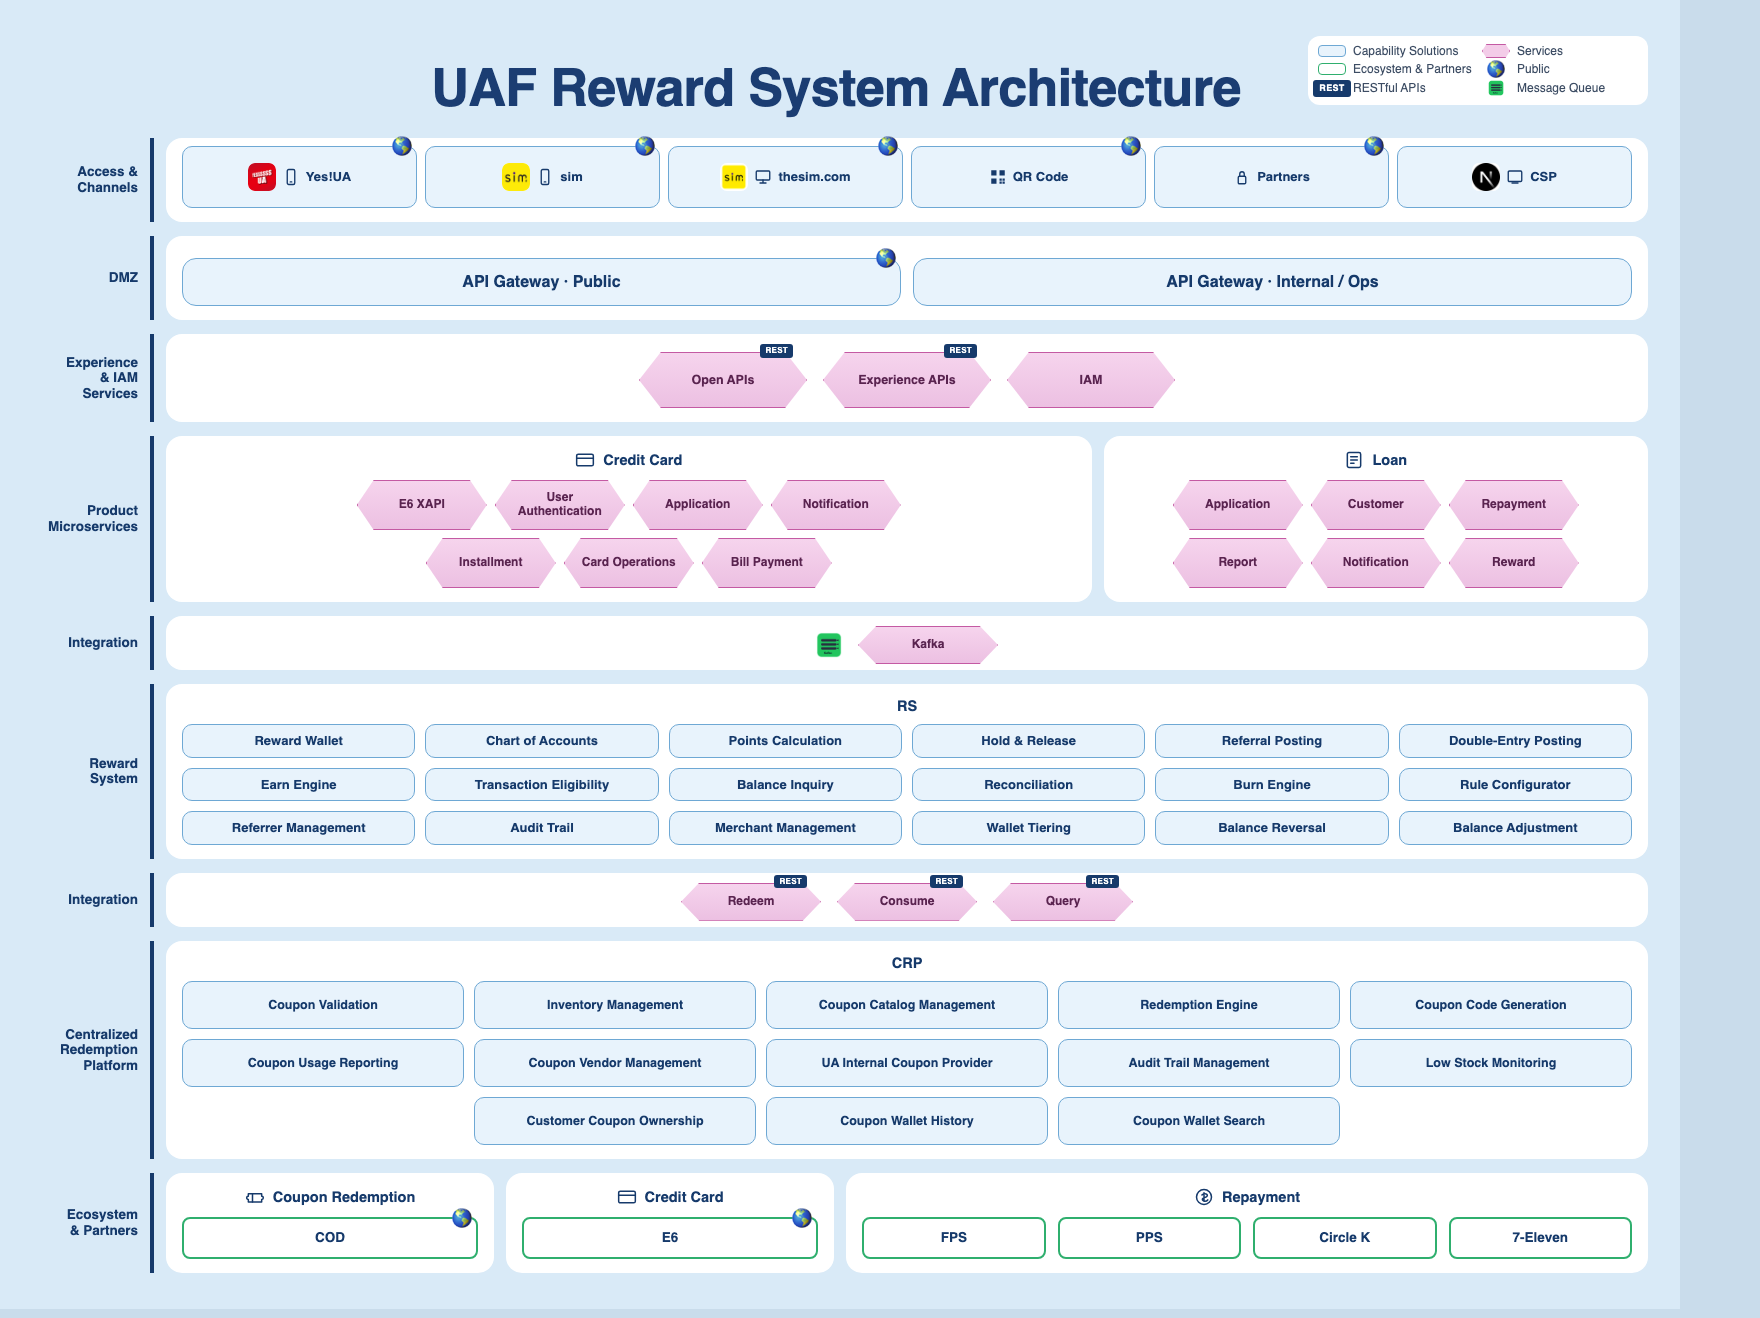
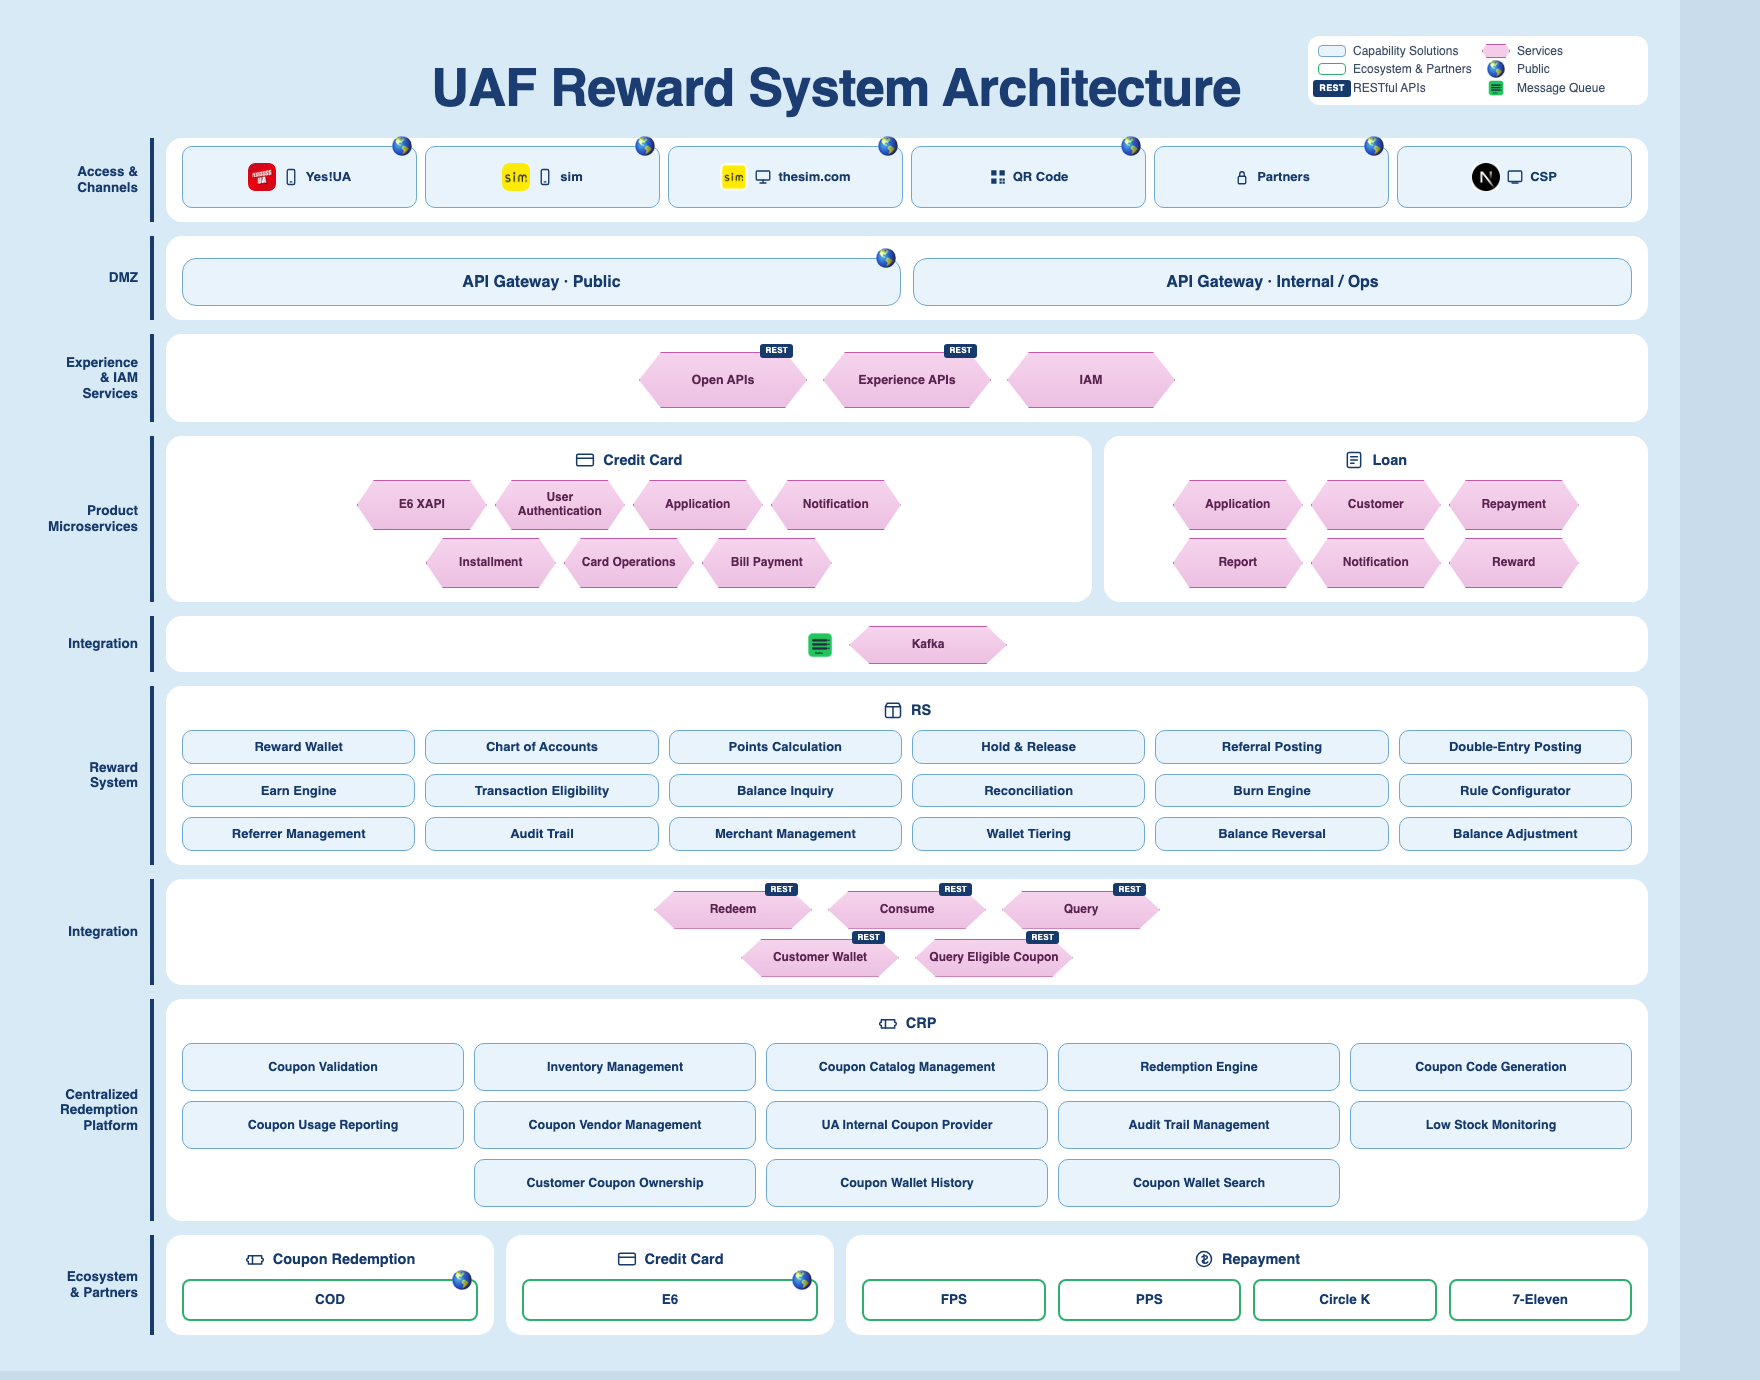
docs(decks): Integration REST add Customer Wallet and Query Eligible Coupon

diff --git a/docs/decks/uaf-rewards-logical-architecture.html b/docs/decks/uaf-rewards-logical-architecture.html
@@ -67,16 +67,16 @@
   .prod{display:grid;grid-template-columns:1.7fr 1fr;gap:12px;align-items:stretch}
   .island{background:#fff;border-radius:16px;padding:14px 16px;min-height:100%}
   .island h3,.card > h3{margin-bottom:10px;display:flex;align-items:center;justify-content:center;gap:8px;text-align:center;font-size:14.5px;color:#163a6b;font-weight:700}
-  .island h3 .ico{width:20px;height:20px}
+  .island h3 .ico,.card > h3 .ico{width:20px;height:20px}
   .prod .hexrow{gap:8px}
   .prod .hexrow .svc{width:130px;min-height:50px;font-size:12px}
   .eco{display:grid;grid-template-columns:.9fr .9fr 2.2fr;gap:12px;align-items:stretch}
   .eco .pay{min-height:42px;width:100%}
   .eco .rails{padding-top:0;grid-template-columns:repeat(4,1fr)}
-  .thin-int{padding:6px 16px}
+  .thin-int{padding:12px 16px 8px}
   .thin-int.hexrow{padding-top:10px}
-  .thin-int .svc{min-height:38px;width:140px;padding:6px 10px;font-size:12px}
-  .thin-int .svcw{width:140px}
+  .thin-int .svc{min-height:38px;width:158px;padding:6px 10px;font-size:12px}
+  .thin-int .svcw{width:158px}
   .thin-int .klogo{width:26px;height:26px}
 
   .l1{grid-column:1;grid-row:1}
@@ -210,7 +210,10 @@
 
     <div class="lab l6">Reward<br>System</div>
     <div class="card c6">
-      <h3>RS</h3>
+      <h3>
+        <svg class="ico" viewBox="0 0 24 24"><path d="M3 8h18v11a2 2 0 0 1-2 2H5a2 2 0 0 1-2-2V8z"/><path d="M3 8l2-4h14l2 4"/><path d="M12 8v13"/></svg>
+        RS
+      </h3>
       <div class="caps" style="grid-template-columns:repeat(6,1fr)">
         <div class="cap">Reward Wallet</div>
         <div class="cap">Chart of Accounts</div>
@@ -234,15 +237,24 @@
     </div>
 
     <div class="lab l7">Integration</div>
-    <div class="card c7 hexrow thin-int">
-      <div class="svcw"><div class="svc">Redeem</div><span class="badge-rest">REST</span></div>
-      <div class="svcw"><div class="svc">Consume</div><span class="badge-rest">REST</span></div>
-      <div class="svcw"><div class="svc">Query</div><span class="badge-rest">REST</span></div>
+    <div class="card c7 thin-int">
+      <div class="hexrow">
+        <div class="svcw"><div class="svc">Redeem</div><span class="badge-rest">REST</span></div>
+        <div class="svcw"><div class="svc">Consume</div><span class="badge-rest">REST</span></div>
+        <div class="svcw"><div class="svc">Query</div><span class="badge-rest">REST</span></div>
+      </div>
+      <div class="hexrow" style="margin-top:10px">
+        <div class="svcw"><div class="svc">Customer Wallet</div><span class="badge-rest">REST</span></div>
+        <div class="svcw"><div class="svc">Query Eligible Coupon</div><span class="badge-rest">REST</span></div>
+      </div>
     </div>
 
     <div class="lab l8">Centralized<br>Redemption<br>Platform</div>
     <div class="card c8">
-      <h3>CRP</h3>
+      <h3>
+        <svg class="ico" viewBox="0 0 24 24"><path d="M4 8h16v3a2 2 0 0 1 0 4v3H4v-3a2 2 0 0 1 0-4V8z"/><path d="M9 8v10"/></svg>
+        CRP
+      </h3>
       <div class="caps crp-caps">
         <div class="cap">Coupon Validation</div>
         <div class="cap">Inventory Management</div>
